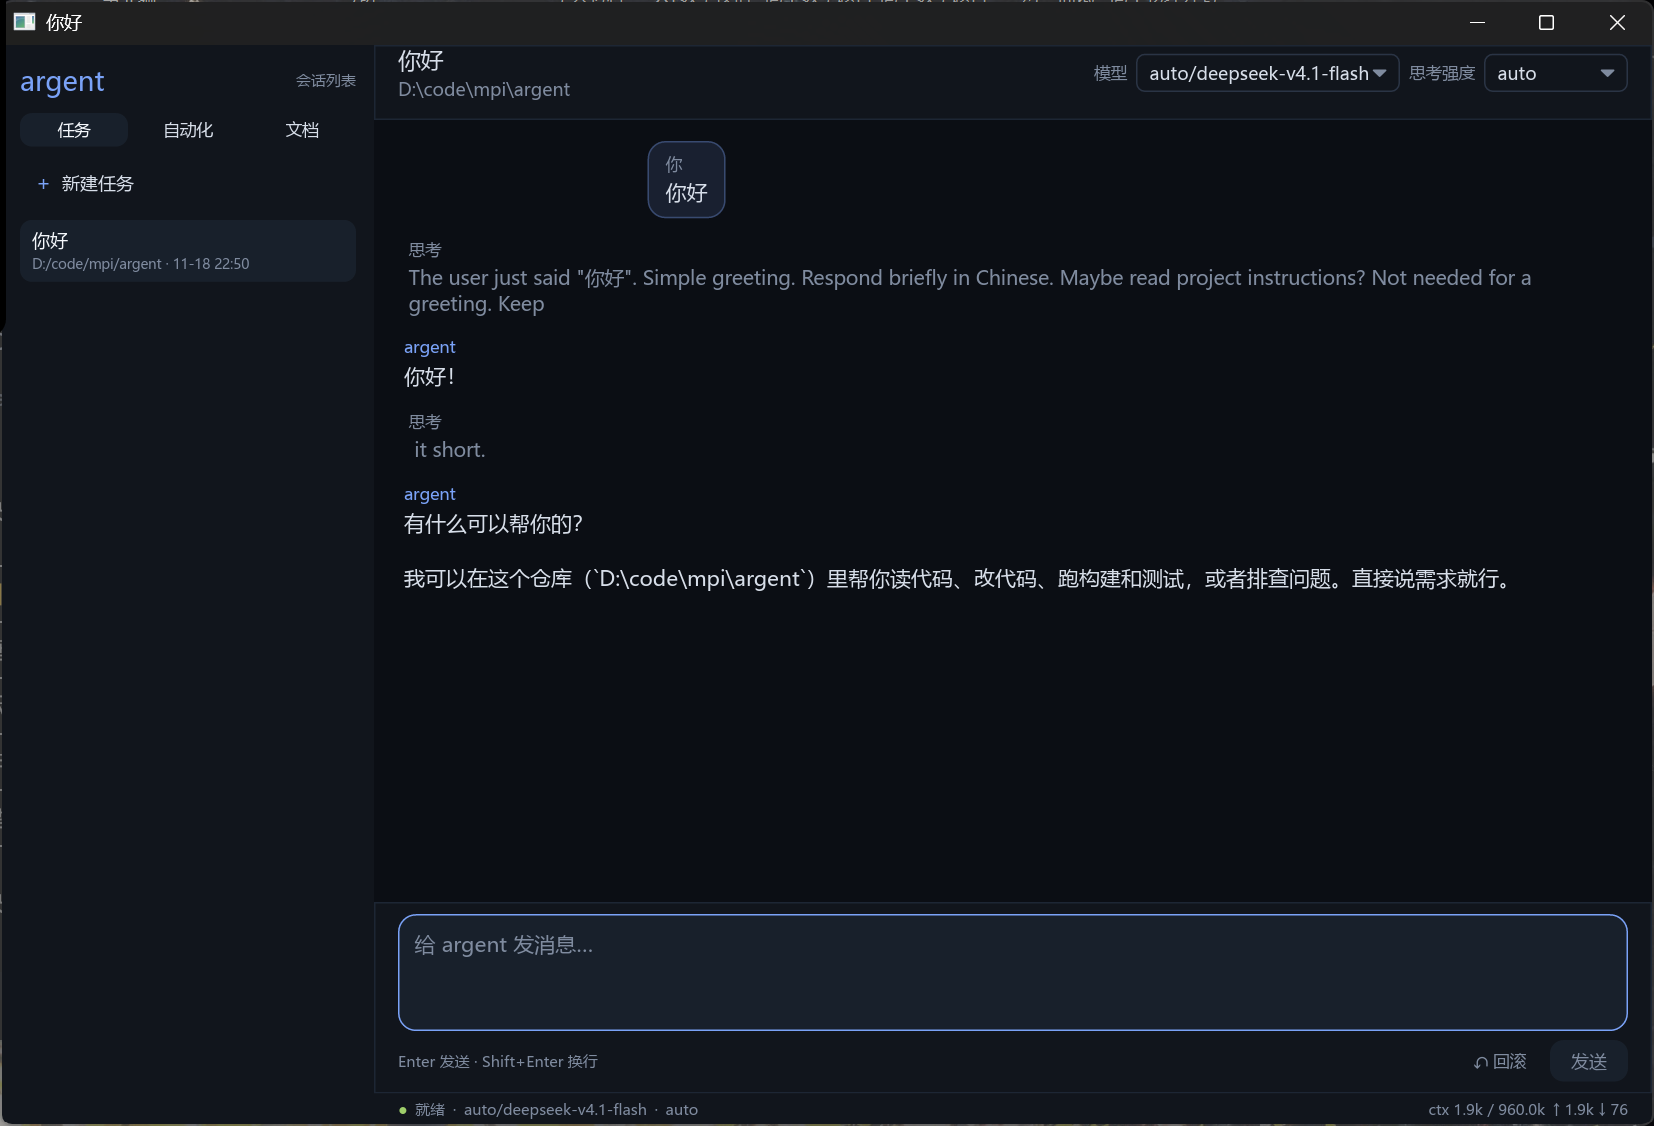
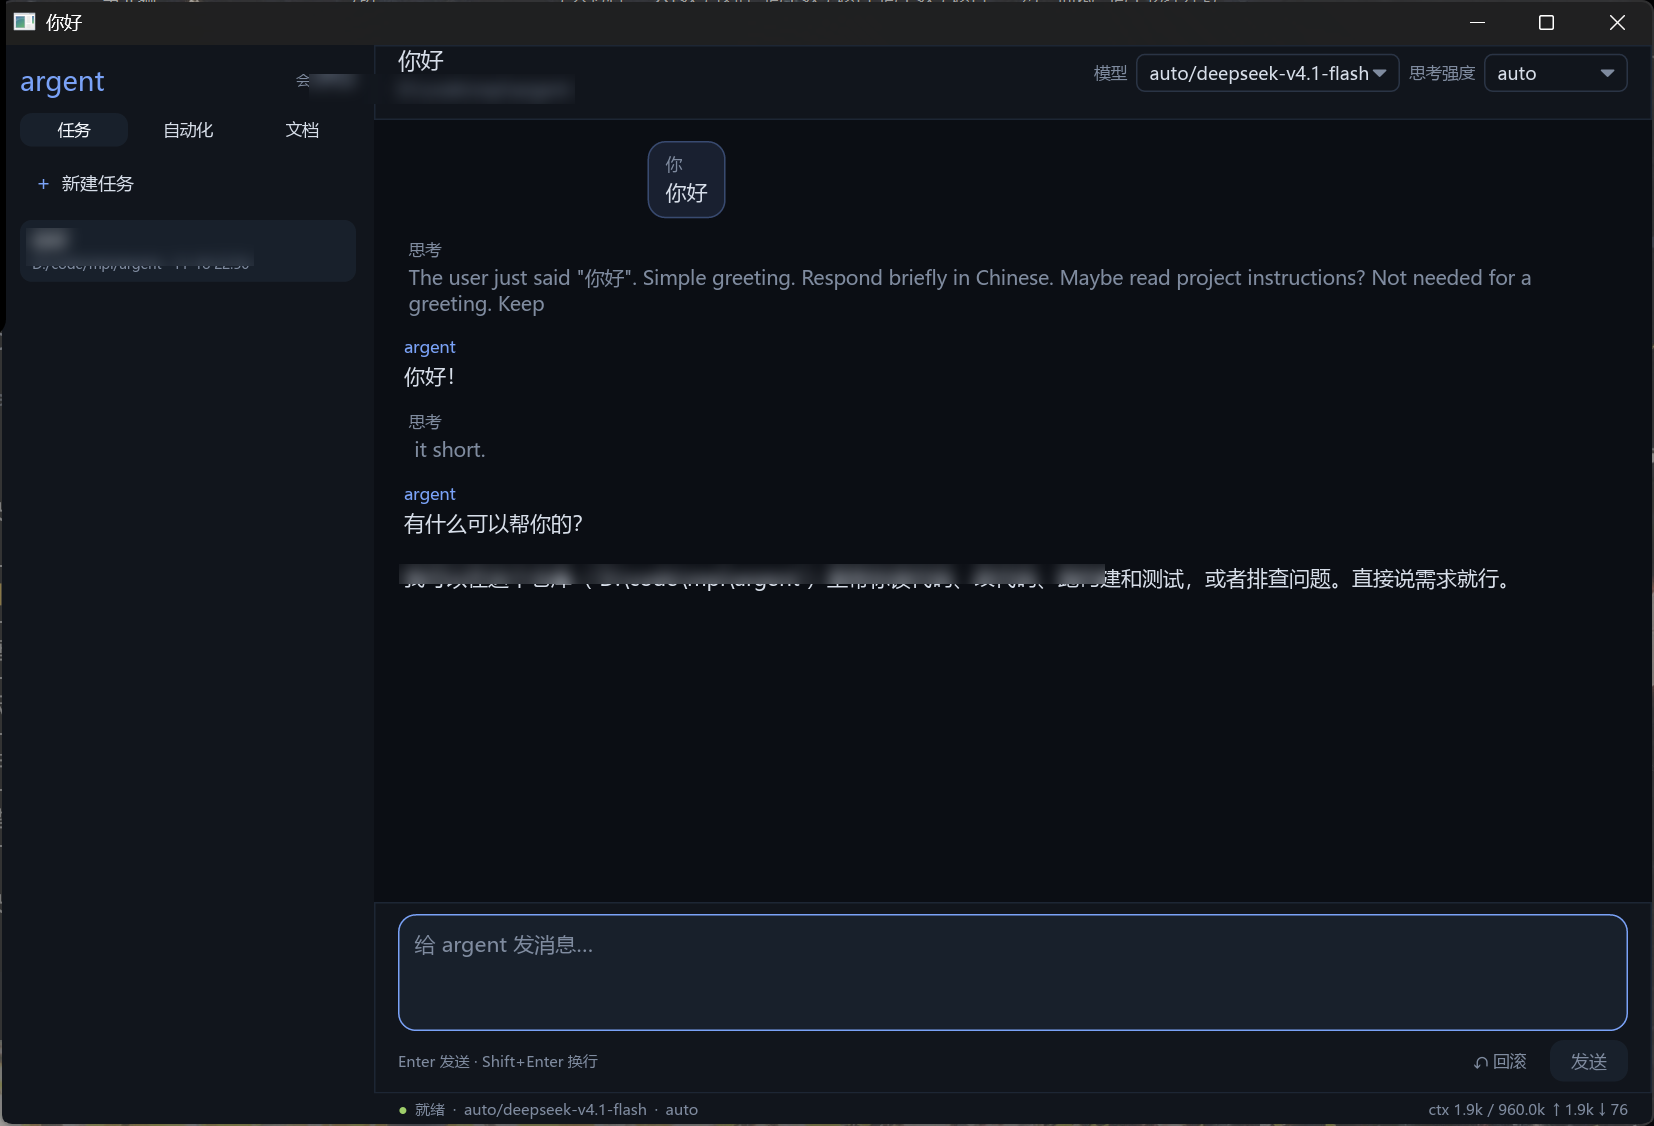
scripts: use absolute bun/python paths in verify script
Avoid profile function shadowing on Windows hosts.

diff --git a/crates/tauri-app/ui/src/App.tsx b/crates/tauri-app/ui/src/App.tsx
@@ -1441,7 +1441,7 @@ function App() {
         <header class="topbar">
           <div class="title-block">
             <div class="title">Argent</div>
-            <div class="path">{ready()?.cwd || "D:\\code\\mpi\\argent"}</div>
+            <div class="path">{ready()?.cwd || ""}</div>
           </div>
           <div class="top-meta">
             <span class="label">{t(locale(), "model")}</span>
@@ -1515,7 +1515,7 @@ function App() {
                 <div class="welcome-card">
                   <div class="welcome-mark">argent</div>
                   <p>{t(locale(), "welcome")}</p>
-                  <div class="path">{ready()?.cwd || "D:\\code\\mpi\\argent"}</div>
+                  <div class="path">{ready()?.cwd || ""}</div>
                   <p class="welcome-hint">
                     首次使用请在终端运行 <code>argent login</code> 配置模型凭据。
                   </p>

diff --git a/scripts/eval-local.py b/scripts/eval-local.py
@@ -27,13 +27,16 @@ LOG_DIR = ROOT / "evals" / "local" / "logs"
 REPORT = ROOT / "docs" / "EVAL-LOCAL-REPORT.md"
 RESULTS = ROOT / "evals" / "local" / "results.json"
 LLAMA_LOG = Path(
-    os.environ.get("LOCAL_4B_ERR_LOG", r"D:\code\local_text\models\spark-eval.err.log")
+    os.environ.get(
+        "LOCAL_4B_ERR_LOG",
+        str(ROOT / "evals" / "local" / "logs" / "llama-server.err.log"),
+    )
 )
 
 BASE_URL = "http://127.0.0.1:8080/v1"
 MODEL = "spark-4b"
 ARGENT = ROOT / "target" / "release" / "argent.exe"
-PI_PS1 = Path(r"C:\Users\xyh\.pi\agent\bin\pi.ps1")
+PI_PS1 = Path(os.environ.get("PI_PS1", "pi.ps1"))
 PI_CONFIG = ROOT / "tests" / "fixtures" / "pi-local-eval"
 TOOLS = ["read", "write", "edit", "bash", "grep", "find", "ls", "apply_patch"]
 
@@ -52,8 +55,8 @@ def parse_args():
     return parser.parse_args()
 
 
-LLAMA_EXE = Path(r"D:\code\local_text\llama.cpp\llama-server.exe")
-LLAMA_MODEL = Path(r"D:\code\local_text\models\Spark-X2.6-4B-Q4_K_M.gguf")
+LLAMA_EXE = Path(os.environ.get("LOCAL_4B_EXE", "llama-server.exe"))
+LLAMA_MODEL = Path(os.environ.get("LOCAL_4B_MODEL", "model.gguf"))
 
 
 def server_ready() -> bool:

diff --git a/crates/tauri-app/src/backend.rs b/crates/tauri-app/src/backend.rs
@@ -131,8 +131,8 @@ fn spawn_session(app: AppHandle, shared: Arc<Shared>, sid: String, handle: Arc<S
         }
         for event in events {
             if let Some(canonical) = canonical_event(&event) {
-                let event_json: Value = serde_json::from_str(&canonical.to_json().dump())
-                    .unwrap_or(Value::Null);
+                let event_json: Value =
+                    serde_json::from_str(&canonical.to_json().dump()).unwrap_or(Value::Null);
                 let _ = app.emit(
                     "argent://runtime",
                     json!({ "sid": sid, "event": event_json }),

diff --git a/tests/fixtures/demo_mcp_server.py b/tests/fixtures/demo_mcp_server.py
@@ -1,5 +1,5 @@
 #!/usr/bin/env python3
-"""A minimal MCP server over stdio, used to exercise the minzcode client.
+"""A minimal MCP server over stdio, used to exercise the argent client.
 
 Implements the handshake plus tools/list and tools/call with two trivial
 tools. No dependencies beyond the standard library.

diff --git a/tests/fixtures/demo_mcp_http.py b/tests/fixtures/demo_mcp_http.py
@@ -1,5 +1,5 @@
 #!/usr/bin/env python3
-"""A minimal MCP server over streamable HTTP, for exercising the minzcode client.
+"""A minimal MCP server over streamable HTTP, for exercising the argent client.
 
 Two modes, chosen by path:
 

diff --git a/docs/TAURI-TODO.md b/docs/TAURI-TODO.md
@@ -3,7 +3,7 @@
 日期：2026-11-19
 基线：`crates/tauri-app` 原型已跑通流式聊天、工具卡、审批桥接、会话列表、
 模型/思考选择器、ctx/cache 状态栏。
-关联：`HANDOFF.md`、`docs/FRONTEND.md`、`docs/ROADMAP.md`、`docs/PARITY.md`。
+关联：`docs/FRONTEND.md`、`docs/ROADMAP.md`、`docs/PARITY.md`。
 
 ## 完成度总览（2026-11-19）
 
@@ -317,7 +317,7 @@ server，`ARGENT_BASE_URL` 指过去；新增 `scripts/tauri-smoke.py`，用 CDP
 | T2.17 | 遥测同意 | 与 CLI 一致的 opt-in UI | S | 默认关闭 |
 | T2.18 | 发布通道 | stable/beta + 回滚说明 | S | 通道切换可用 |
 | T2.19 | 崩溃上报 | opt-in，含版本/堆栈/最近日志 | M | 不上传会话内容 |
-| T2.20 | 文档同步 | README/FRONTEND/HANDOFF 更新 | S | 构建命令可复制运行 |
+| T2.20 | 文档同步 | README/FRONTEND 更新 | S | 构建命令可复制运行 |
 
 ---
 
@@ -408,7 +408,7 @@ server，`ARGENT_BASE_URL` 指过去；新增 `scripts/tauri-smoke.py`，用 CDP
   `WEBVIEW2_ADDITIONAL_BROWSER_ARGUMENTS="--remote-debugging-port=9222"`
   + Python websockets。
 - 本机 PowerShell 不支持 `&&`，命令用 `;` 分隔。
-- bun 在 `C:\Users\xyh\.bun\bin\bun.exe`；前端构建产物在 `ui/dist`。
+- bun 在 PATH 中（或设 `BUN` 环境变量）；前端构建产物在 `ui/dist`。
 - `capabilities/default.json` 必须保留 `core:event:allow-listen/unlisten`。
 - Tauri 是独立 workspace，产物在 `crates/tauri-app/target/`，根 `cargo test`
   不会覆盖它。

diff --git a/docs/EVAL-LOCAL-TODO.md b/docs/EVAL-LOCAL-TODO.md
@@ -7,11 +7,11 @@
 
 | 项 | 值 |
 |---|---|
-| llama-server | `D:\code\local_text\llama.cpp\llama-server.exe` |
-| 模型 | `D:\code\local_text\models\Spark-X2.6-4B-Q4_K_M.gguf` |
+| llama-server | `%LOCAL_4B_EXE%`（默认 `llama-server.exe`） |
+| 模型 | `%LOCAL_4B_MODEL%`（默认 `model.gguf`） |
 | 别名 / 端口 | `spark-4b` / `127.0.0.1:8080` |
 | 启动参数 | `-c 16384 -ngl 99 --jinja`（复用 `scripts/local-4b.ps1`） |
-| Pi | `C:\Users\xyh\.pi\agent\bin\pi.ps1`，1.5.2，隔离配置目录 |
+| Pi | `%PI_PS1%`（默认 `pi.ps1`），1.5.2，隔离配置目录 |
 | Pi 隔离 | `PI_CODING_AGENT_DIR=<temp>`，配置 `--no-extensions --no-skills --no-mcp --no-context-files --no-session --offline` |
 | argent | `target\release\argent.exe`（或 `target\debug`），参数 `--provider local --base-url http://127.0.0.1:8080/v1 -m spark-4b --thinking off` |
 | 提示词约束 | 只描述任务本身，使用"助手/assistant"，**不出现任何其他 agent 名称** |

diff --git a/docs/PI-CORE-ALIGNMENT.md b/docs/PI-CORE-ALIGNMENT.md
@@ -1,6 +1,6 @@
 # Pi 1.5.2 内核对照（源码级）
 
-来源：`C:\Users\xyh\.pi\agent\install\releases\1.5.2\node_modules\@earendil-works\pi-coding-agent\dist`
+来源：`%USERPROFILE%\.pi\agent\install\releases\<version>\node_modules\@earendil-works\pi-coding-agent\dist`
 
 ## Pi 的真实内核边界
 
